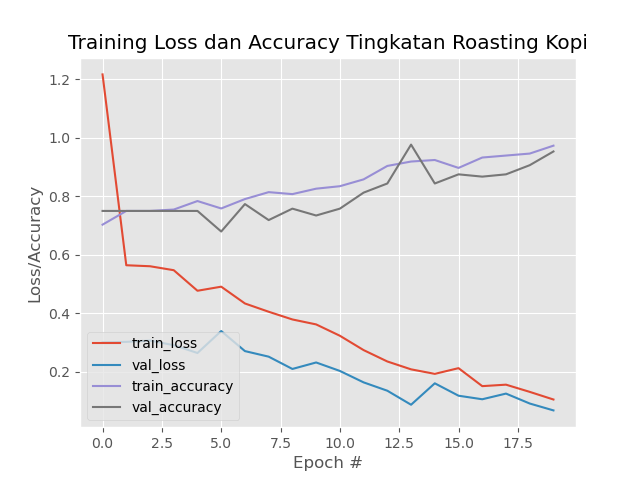
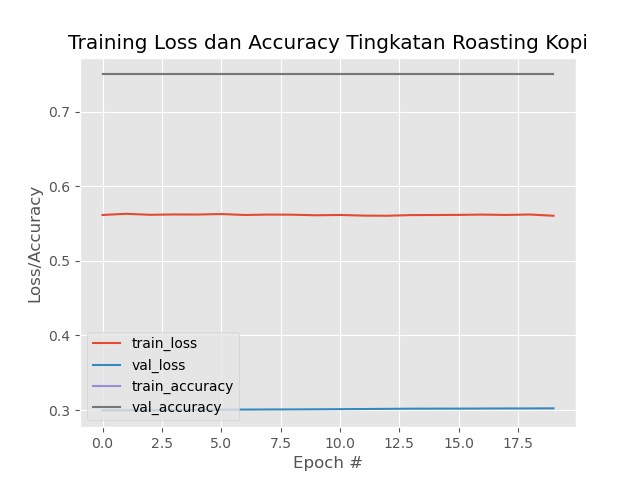
Optimasi SGD Nadam

diff --git a/AlexNet/train_alexnet.py b/AlexNet/train_alexnet.py
@@ -8,6 +8,8 @@ matplotlib.use("Agg")
 import tensorflow as tf
 from tensorflow import keras
 from tensorflow.keras.optimizers import Adam
+from tensorflow.keras.optimizers import SGD 
+from tensorflow.keras.optimizers import Nadam
 from sklearn.model_selection import train_test_split
 from keras.preprocessing.image import img_to_array
 from keras.preprocessing.image import ImageDataGenerator
@@ -22,10 +24,10 @@ from sklearn.preprocessing import LabelBinarizer
 from sklearn.metrics import classification_report
 from sklearn.metrics import confusion_matrix
 
-#Setting for using CPU
-tf.config.experimental.set_visible_devices([], 'GPU')
-tf.config.experimental.list_physical_devices('GPU')
-tf.config.experimental.list_logical_devices('GPU')
+#Setting for using CPU(untuk Adam dan SGD gak usah)
+# tf.config.experimental.set_visible_devices([], 'GPU')
+# tf.config.experimental.list_physical_devices('GPU')
+# tf.config.experimental.list_logical_devices('GPU')
 
 np.seterr(divide='ignore', invalid='ignore')
 
@@ -50,7 +52,6 @@ imagePaths = sorted(list(paths.list_images("../prepo")))
 random.seed(42)
 random.shuffle(imagePaths)
 
-
 for imagePath in imagePaths:
     make = imagePath[9:].split("(")[0]
     image = cv2.imread(imagePath)
@@ -63,16 +64,12 @@ for imagePath in imagePaths:
 
     if make == "Mentah ":
         label = 0
-        # labels.append(label)
     elif make == "Light Roast ":
         label = 1
-        # labels.append(label)
     elif make =="Medium Roast ":
         label = 2
-        # labels.append(label)
     elif make == "Dark Roast ":
         label = 3
-        # labels.append(label)
     labels.append(label)
 
 print(labels)
@@ -97,7 +94,9 @@ aug = ImageDataGenerator(rotation_range = 30, width_shift_range=0.1,
 #inisiasi model
 print("[Info] Compiling Model.....")
 model = AlexNet.build(width=227, height=227, depth=3, classes=4)
-opt = Adam(lr=INIT_LR, decay=INIT_LR / EPOCHS)
+# opt = Adam(lr=INIT_LR, decay=INIT_LR / EPOCHS)
+opt = SGD(lr=INIT_LR, momentum=0.9, decay=INIT_LR / EPOCHS)
+# opt = Nadam(lr=INIT_LR, decay=INIT_LR / EPOCHS)
 model.compile(loss="binary_crossentropy", optimizer=opt, metrics=["accuracy"])
 
 #train the network
@@ -108,7 +107,9 @@ H = model.fit_generator(aug.flow(trainX, trainY, batch_size=BS),
 
 #save model
 print("[Info] menyimpan model")
-model.save('train_AlexNet.model.h5')
+# model.save('train_AlexNet.model.h5')
+# model.save('train_AlexNet(SGD).model.h5')
+# model.save('train_AlexNet(NADAM).model.h5')
 
 #simpan model ke disk
 # model.save(args["model"])

diff --git a/AlexNet/alexnet.py b/AlexNet/alexnet.py
@@ -13,50 +13,38 @@ class AlexNet:
         #inisiasi model
         model = Sequential()
         inputShape = (height, width, depth)
-        # chandim = -1
 
         # Block1 conv ke-1 > RELU > Pool Layer Set
         model.add(Conv2D(96,(11, 11), strides=(4,4), input_shape=inputShape, padding="same"))
         model.add(Activation("relu"))
-        # model.add(BatchNormalization(axis=chandim))
         model.add(MaxPooling2D(pool_size=(3, 3), strides=(2, 2)))
-        # model.add(Dropout(0.25))
 
         # Block2 conv ke-2 > RELU > Pool Layer Set
         model.add(Conv2D(256,(5,5), padding="same"))
         model.add(Activation("relu"))
-        # model.add(BatchNormalization(axis=chandim))
         model.add(MaxPooling2D(pool_size=(3,3), strides=(2,2)))
-        # model.add(Dropout(0.25))
 
         #Block3 conv ke-3 > RELU > conv ke-4 > RELU > conv ke-5 > RELU > Pool Layer Set
         model.add(Conv2D(384, (3,3), padding="same"))
         model.add(Activation("relu"))
-        # model.add(BatchNormalization(axis=chandim))
 
         model.add(Conv2D(384, (3,3), padding="same"))
         model.add(Activation("relu"))
-        # model.add(BatchNormalization(axis=chandim))
 
         model.add(Conv2D(256, (3,3), padding="same"))
         model.add(Activation("relu"))
-        # model.add(BatchNormalization(axis=chandim))
-
         model.add(MaxPooling2D(pool_size=(3,3), strides=(2,2)))
-        # model.add(Dropout(0.25))
 
         #block 4 FC Ke 1 >RELU
         model.add(Flatten())
         model.add(Dense(4096))
         model.add(Activation("relu"))
-        # model.add(BatchNormalization())
         #drop rate 40%
         model.add(Dropout(0.4))
 
         #block 5 FC ke 2
         model.add(Dense(4096))
         model.add(Activation("relu"))
-        # model.add(BatchNormalization())
         #drop rate 40%
         model.add(Dropout(0.4))
 

diff --git a/LeNet/train_lenet.py b/LeNet/train_lenet.py
@@ -8,6 +8,8 @@ matplotlib.use("Agg")
 import tensorflow as tf
 from tensorflow import keras
 from tensorflow.keras.optimizers import Adam
+from tensorflow.keras.optimizers import SGD 
+from tensorflow.keras.optimizers import Nadam
 from tensorflow.keras.utils import to_categorical
 from sklearn.preprocessing import LabelBinarizer
 from sklearn.model_selection import train_test_split
@@ -33,6 +35,7 @@ args = vars(ap.parse_args())
 
 # inisiasi variabel
 EPOCHS = 20
+#10^-3
 INIT_LR = 1e-3
 BS = 32
 
@@ -59,16 +62,12 @@ for imagePath in imagePaths:
 
     if make == "Mentah ":
         label = 0
-        # labels.append(label)
     elif make == "Light Roast ":
         label = 1
-        # labels.append(label)
     elif make =="Medium Roast ":
         label = 2
-        # labels.append(label)
     elif make == "Dark Roast ":
-        label = 3
-        # labels.append(label)      
+        label = 3     
     labels.append(label)
 
 print(labels)
@@ -94,6 +93,8 @@ aug = ImageDataGenerator(rotation_range = 30, width_shift_range=0.1,
 print("[Info] Compiling Model.....")
 model = LeNet.build(width=32, height=32, depth=3, classes=4)
 opt = Adam(lr=INIT_LR, decay=INIT_LR / EPOCHS)
+# opt = SGD(lr=INIT_LR, momentum=0.9, decay=INIT_LR / EPOCHS)
+# opt = Nadam(lr=INIT_LR, decay=INIT_LR / EPOCHS)
 model.compile(loss="binary_crossentropy", optimizer=opt, metrics=["accuracy"])
 
 #train the network
@@ -104,7 +105,9 @@ H = model.fit_generator(aug.flow(trainX, trainY, batch_size=BS),
 
 #save model
 print("[Info] menyimpan model")
-model.save('train_lenet.model.h5')
+# model.save('train_lenet.model.h5')
+# model.save('train_lenet(SGD).model.h5')
+# model.save('train_lenet(NADAM).model.h5')
 
 #simpan model ke disk
 # model.save(args["model"])

diff --git a/LeNet/rgbhistogram.py b/LeNet/rgbhistogram.py
@@ -4,42 +4,6 @@ from matplotlib import pyplot as plt
 import os
 from tqdm import tqdm
 
-# basic
-# img = cv2.imread("../Images/Medium_Roast/Medium_Roast (56).jpg",1)
-# img_resize =  cv2.resize(img, (224, 224)) 
-# cv2.imshow('image awal',img_resize)
-# plt.hist(img.ravel(),256,[0,256])
-# plt.title("Gambar Awal")
-# plt.show()
-
-# buat dapetin histogram tiap warna
-# color = ('b', 'g', 'r')
-# for channel,col in enumerate(color):
-#     histr = cv2.calcHist([img], [channel], None, [256], [0,256])
-#     plt.plot(histr,color = col)
-#     plt.title('Histogram for color scale image')
-#     plt.show()
-# while True:
-#     k = cv2.waitKey(0) & 0xFF
-#     if k==27: break
-# cv2.destroyAllWindows()
-
-# img_y_cr_cb = cv2.cvtColor(img_resize, cv2.COLOR_BGR2YCrCb)
-# y, cr, cb = cv2.split(img_y_cr_cb)
-
-# # equalize Hist operation di Y channel.
-# y_eq = cv2.equalizeHist(y)
-
-# img_y_cr_cb_eq = cv2.merge((y_eq, cr, cb))
-# img_rgb_eq = cv2.cvtColor(img_y_cr_cb_eq, cv2.COLOR_YCR_CB2BGR)
-
-# cv2.imshow("histogram eq", img_rgb_eq)
-# plt.hist(img_rgb_eq.ravel(),256,[0,256])
-# plt.title("Gambar Equalization")
-# plt.show()
-# cv2.waitKey(0)
-
-
 i = 1
 
 Train_dir = "../Dataset"
@@ -60,9 +24,6 @@ for img in tqdm(os.listdir(Train_dir)):
     img_rgb_eq = cv2.cvtColor(img_y_cr_cb_eq, cv2.COLOR_YCR_CB2BGR)
 
     #simpan ke prepo
-    # counter = str(i)
-    # nama = ""+counter+".jpg"
-
     #ambil nama asli file e
     nama = ""+img_path[10:].split(".")[0]
     savename = os.path.basename(nama)+".jpg"

diff --git a/LeNet/test_lenet.py b/LeNet/test_lenet.py
@@ -16,7 +16,7 @@ import cv2
 # args = vars(ap.parse_args())
 
 #load image 
-path = "../LuarSet/mentah (5).jpg"
+path = "../LuarSet/Light_Roast (1).jpg"
 image = cv2.imread(path, cv2.IMREAD_COLOR)
 orig = image.copy()
 
@@ -32,8 +32,6 @@ image = cv2.cvtColor(image, cv2.COLOR_YCR_CB2BGR)
 
 #resize
 image = cv2.resize(image,(32,32))
-# cv2.imshow("o",image)
-# cv2.waitKey(0)
 image = image.astype("float") / 255.0
 image = img_to_array(image)
 image = np.expand_dims(image, axis = 0)

diff --git a/LeNet/lenet.py b/LeNet/lenet.py
@@ -12,9 +12,6 @@ class LeNet:
         #inisiasi model
         model = Sequential()
         inputShape = (height, width, depth)
-
-        # if tf.keras.image_data_format() == "channels_first":
-        #     inputShape = (depth, height, width)
         
         #same = zero padding set conv-relu-pool layer 20 layer convolution 5x5
         model.add(Conv2D(20, (5,5), padding="same", input_shape = inputShape))

diff --git a/VGG16/train_vgg16.py b/VGG16/train_vgg16.py
@@ -37,6 +37,7 @@ args = vars(ap.parse_args())
 
 # inisiasi variabel
 EPOCHS = 20
+#10^-3
 INIT_LR = 1e-3
 BS = 32
 
